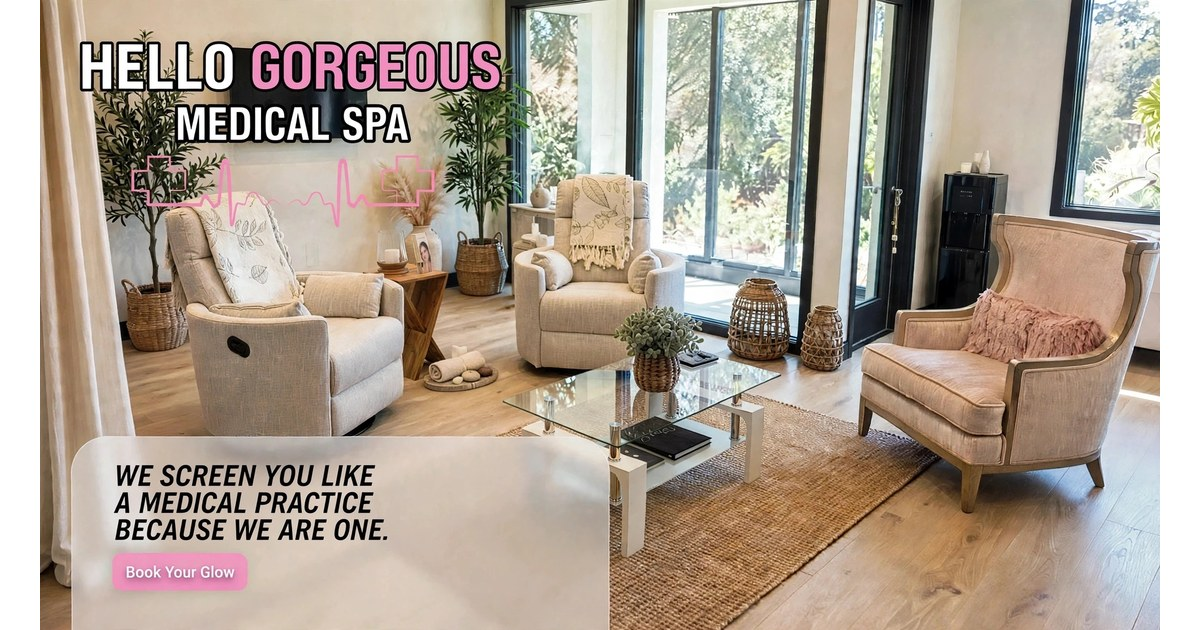
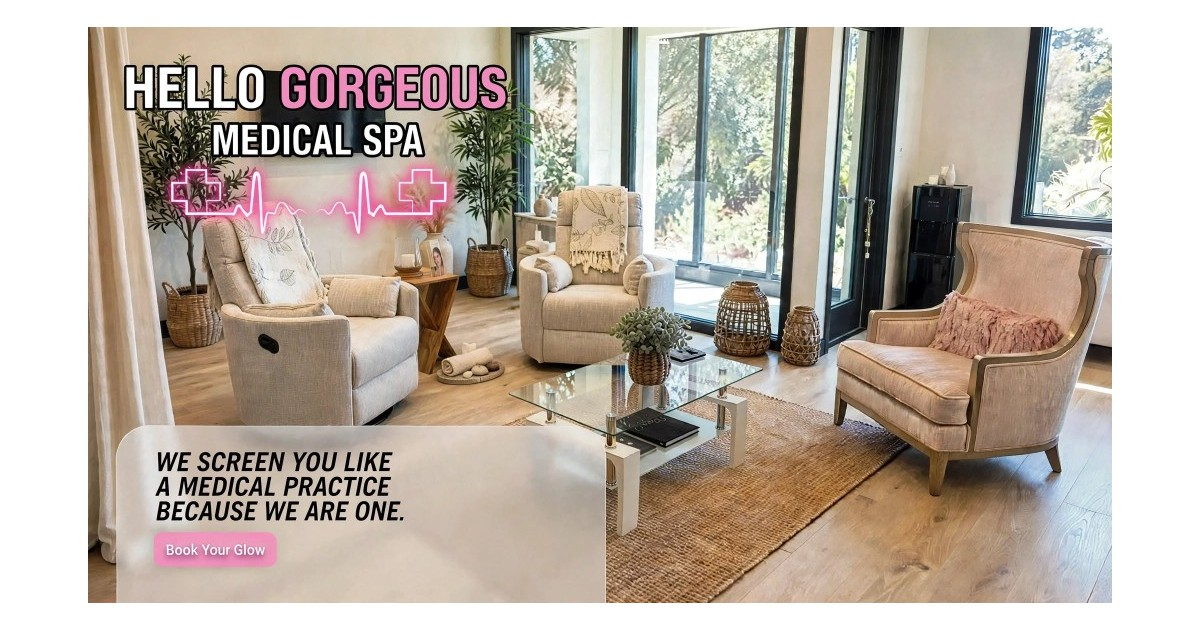
Tell Google the lounge plate is the site thumbnail.

diff --git a/lib/seo.ts b/lib/seo.ts
@@ -139,7 +139,8 @@ function reserveActionJsonLd(reservationName = "Appointment at Hello Gorgeous Me
 export const SITE_HERO_IMAGE = "/images/website-hero/hello-gorgeous-medical-spa-hero.jpg" as const;
 /** Mobile LCP crop — same still. */
 export const SITE_HERO_IMAGE_SM = "/images/website-hero/hello-gorgeous-medical-spa-hero.jpg" as const;
-export const SITE_OG_IMAGE = `${SITE.url}/images/website-hero/hello-gorgeous-medical-spa-og.jpg?v=2026-09-lounge-og-2x` as const;
+export const SITE_OG_IMAGE_PATH = "/images/website-hero/hello-gorgeous-medical-spa-og.jpg" as const;
+export const SITE_OG_IMAGE = `${SITE.url}${SITE_OG_IMAGE_PATH}?v=2026-09-22-google-lounge` as const;
 export const SITE_OG_IMAGE_ALT =
   "Hello Gorgeous Medical Spa lounge — we screen you like a medical practice because we are one.";
 export const SITE_OG_IMAGE_WIDTH = 1200;
@@ -1339,7 +1340,7 @@ export function mainLocalBusinessJsonLd(opts?: { aggregateRating?: AggregateRati
     description: SITE.description,
     telephone: SITE.phone,
     email: SITE.email,
-    image: `${SITE.url}/images/logo-full.png`,
+    image: SITE_OG_IMAGE,
     priceRange: SITE.priceRange,
     address: {
       "@type": "PostalAddress",

diff --git a/app/page.tsx b/app/page.tsx
@@ -7,8 +7,8 @@ import { getGooglePlace } from "@/lib/seo/google-places";
 import { aroraPersonJsonLd } from "@/lib/medical-trust";
 import {
   SITE,
-  SITE_HERO_IMAGE,
   SITE_OG_IMAGE,
+  SITE_OG_IMAGE_PATH,
   SITE_OG_IMAGE_ALT,
   SITE_OG_IMAGE_HEIGHT,
   SITE_OG_IMAGE_WIDTH,
@@ -78,7 +78,7 @@ export default async function HomePage() {
               description:
                 "#1 Best Med Spa in Oswego, IL. Medical Director Dr. Mukesh Arora, MD · NP on site. Morpheus8 Burst, injectables, GLP-1, hormone support, Solaria CO₂, IV therapy, and advanced skin + body treatments.",
               path: "/",
-              image: SITE_HERO_IMAGE,
+              image: SITE_OG_IMAGE_PATH,
               datePublished: "2023-01-01",
               dateModified: new Date().toISOString().split("T")[0],
             }),
